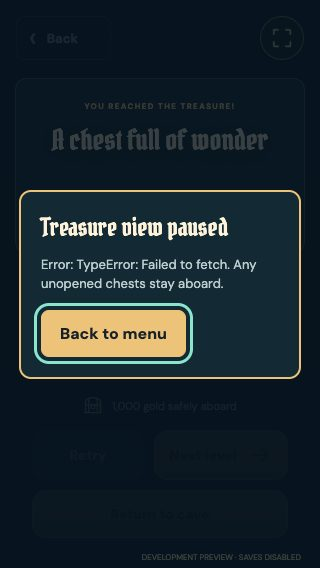
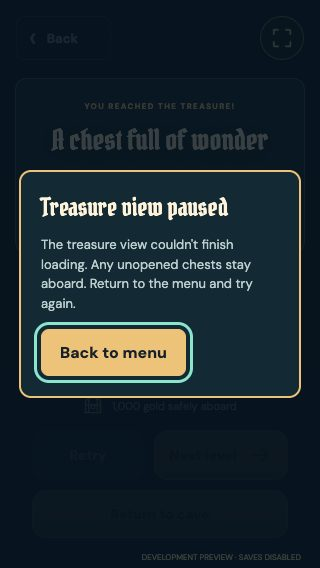
Use clear recovery instructions in treasure error dialog

Changed region(s): [[0.0312, 0.2993, 0.9688, 0.7183]]

diff --git a/demos/broadside/src/shared/pirate-world/feedback.ts b/demos/broadside/src/shared/pirate-world/feedback.ts
@@ -5,7 +5,10 @@ export function showWorldError(message:string,onBack:()=>void):()=>void {
   const previous=document.activeElement as HTMLElement|null;
   const dialog=document.createElement('dialog');dialog.className='pirate-world-error';
   const title=document.createElement('h2');title.id='pirate-world-error-title';title.textContent='Treasure view paused';
-  const text=document.createElement('p');text.textContent=`${message}. Any unopened chests stay aboard.`;
+  const text=document.createElement('p');
+  text.textContent=/sav(e|ed|ing)|storage/i.test(message)
+    ? "Your chest couldn't be saved. It stays safely aboard. Return to the menu and try again."
+    : "The treasure view couldn't finish loading. Any unopened chests stay aboard. Return to the menu and try again.";
   const back=document.createElement('button');back.textContent='Back to menu';
   dialog.setAttribute('aria-labelledby',title.id);dialog.append(title,text,back);document.body.append(dialog);
   const dispose=()=>{dialog.close();dialog.remove();if(previous?.isConnected)previous.focus();};
